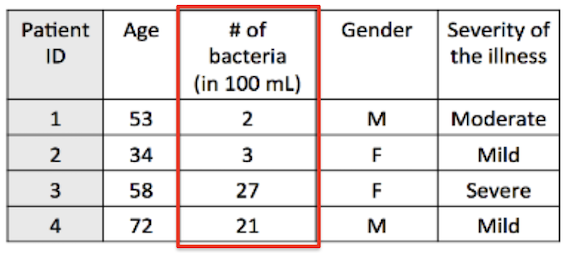
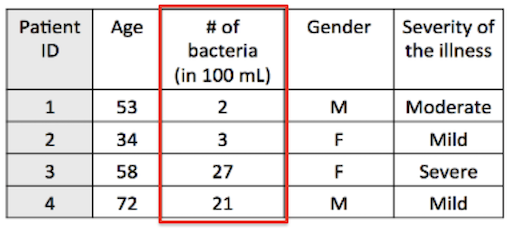
Reduce all image sizes and fix equation rendering

diff --git a/_episodes/00-Terminology-Review.md b/_episodes/00-Terminology-Review.md
@@ -63,22 +63,20 @@ The mean is the sum of measurements divided by the total number of measurements.
 
 The mode is the most commonly occurring value (value with the highest frequency).
 
-> ## Example: Calculating measures of central tendency
-> The systolic blood pressure of seven middle aged men were as follows:
-> 151, 124, 132, 170, 146, 124 and 113
->
-> **Mean:** $\bar{x} = \frac{151 + 124 + 132 + 170 + 146 + 124 + 113}{7} = 137.14$
->
-> **Median:**
->
-> 113, 124, 124, **132**, 146, 151, 170
->
-> **Mode:**
->
-> | 113 | **124** | 132 | 146 | 151 | 170 |
-> |-----|---------|-----|-----|-----|-----|
-> | 1   | **2**   | 1   | 1   | 1   | 1   |
-{: .callout}
+## Example: Calculating measures of central tendency
+
+The systolic blood pressure of seven middle aged men were as follows:
+151, 124, 132, 170, 146, 124 and 113
+
+**Mean:** $\bar{x} = \frac{151 + 124 + 132 + 170 + 146 + 124 + 113}{7} = 137.14$
+
+**Median:** 113, 124, 124, **132**, 146, 151, 170
+
+**Mode:**
+
+| 113 | **124** | 132 | 146 | 151 | 170 |
+|:---:|:-------:|:---:|:---:|:---:|:---:|
+| 1   | **2**   | 1   | 1   | 1   | 1   |
 
 ### Measures of variability
 
@@ -109,17 +107,21 @@ $$s^2 = \frac{\sum_{i=1}^{n}(x_i - \bar{x})^2}{n-1}$$
 
 The sample standard deviation, s, is the square-root of the variance.
 
-> ## Example: Calculating measures of variability
-> Using the blood pressure data (151, 124, 132, 170, 146, 124, 113):
->
-> **Range:** $\text{Max} - \text{Min} = 170 - 113 = 57$
->
-> **Mean:** $\bar{x} = 137.14$
->
-> **Variance:** $s^2 = \frac{(151-137.14)^2 + (124-137.14)^2 + \cdots}{7-1} \approx 384.14$
->
-> **Standard deviation:** $s = \sqrt{384.14} \approx 19.60$
-{: .callout}
+## Example: Calculating measures of variability
+
+Using the blood pressure data (151, 124, 132, 170, 146, 124, 113):
+
+**Range:**
+$\text{Max} - \text{Min} = 170 - 113 = 57$
+
+**Mean:**
+$\bar{x} = 137.14$
+
+**Variance:**
+$$s^2 = \frac{(151-137.14)^2 + (124-137.14)^2 + \cdots}{7-1} \approx 384.14$$
+
+**Standard deviation:**
+$s = \sqrt{384.14} \approx 19.60$
 
 #### Interquartile range
 
@@ -159,9 +161,7 @@ Many variables of interest follow a normal distribution (e.g. age, height, weigh
 1. the mean µ
 2. standard deviation σ
 
-X follows a Normal distribution with the parameters μ (mean) and σ (standard deviation):
-
-$$X \sim N(\mu, \sigma)$$
+X follows a Normal distribution with the parameters μ (mean) and σ (standard deviation): $X \sim N(\mu, \sigma)$
 
 ![RStudio layout](../fig/00-fig8.png)
 
